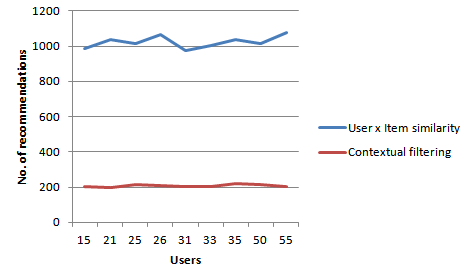
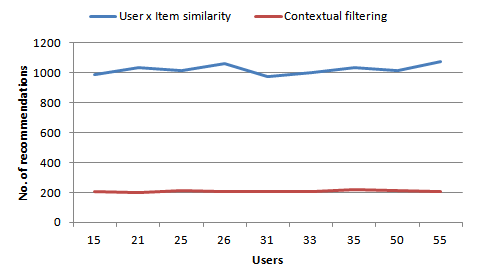
Added numberrecos. Final report push.

diff --git a/final_report/final.tex b/final_report/final.tex
@@ -378,10 +378,12 @@ interaction & First    & First    & First   & First    & First    & First      \
 \item By identifying groups of users who are related, values contextual attributes can be inferred for users from the same group
 \item Group recommendations filtered on the contextual values for the entire group
 \end{enumerate}
-\\
-\\
-\\
-\\
+
+\begin{figure}[H]
+\includegraphics[height=2.5in, width=3.5in]{numberrecos.png}
+\caption{Effect of contextual postfiltering on the number of generated recommendations}
+\label{numberrecos}
+\end{figure}
 
 \newpage
 \section{Appendix}
